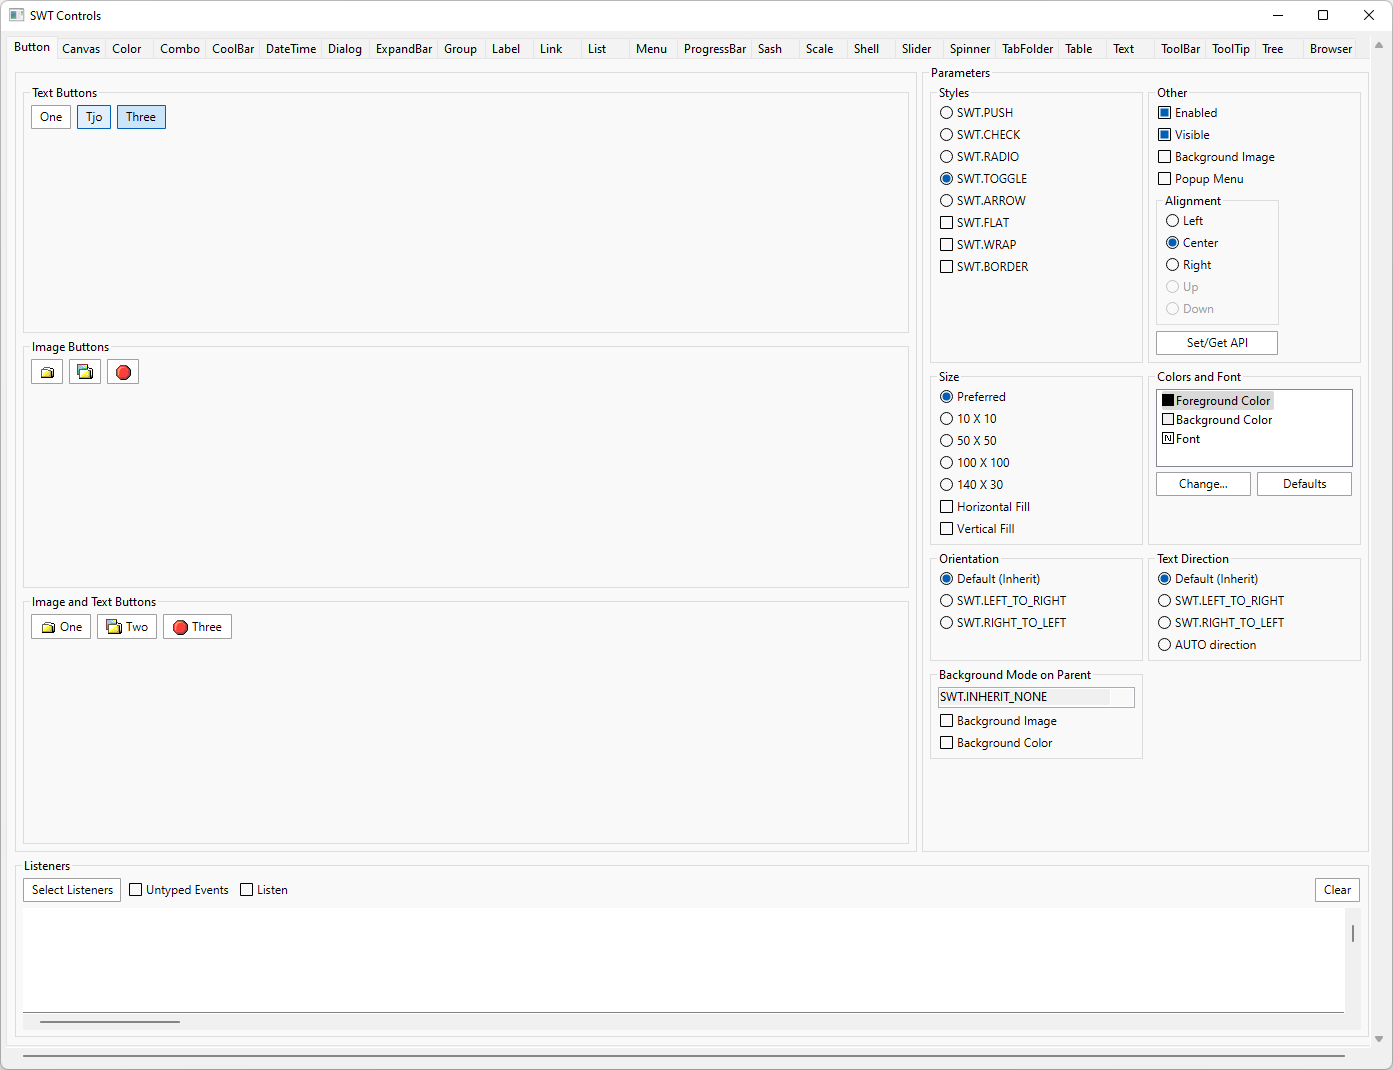
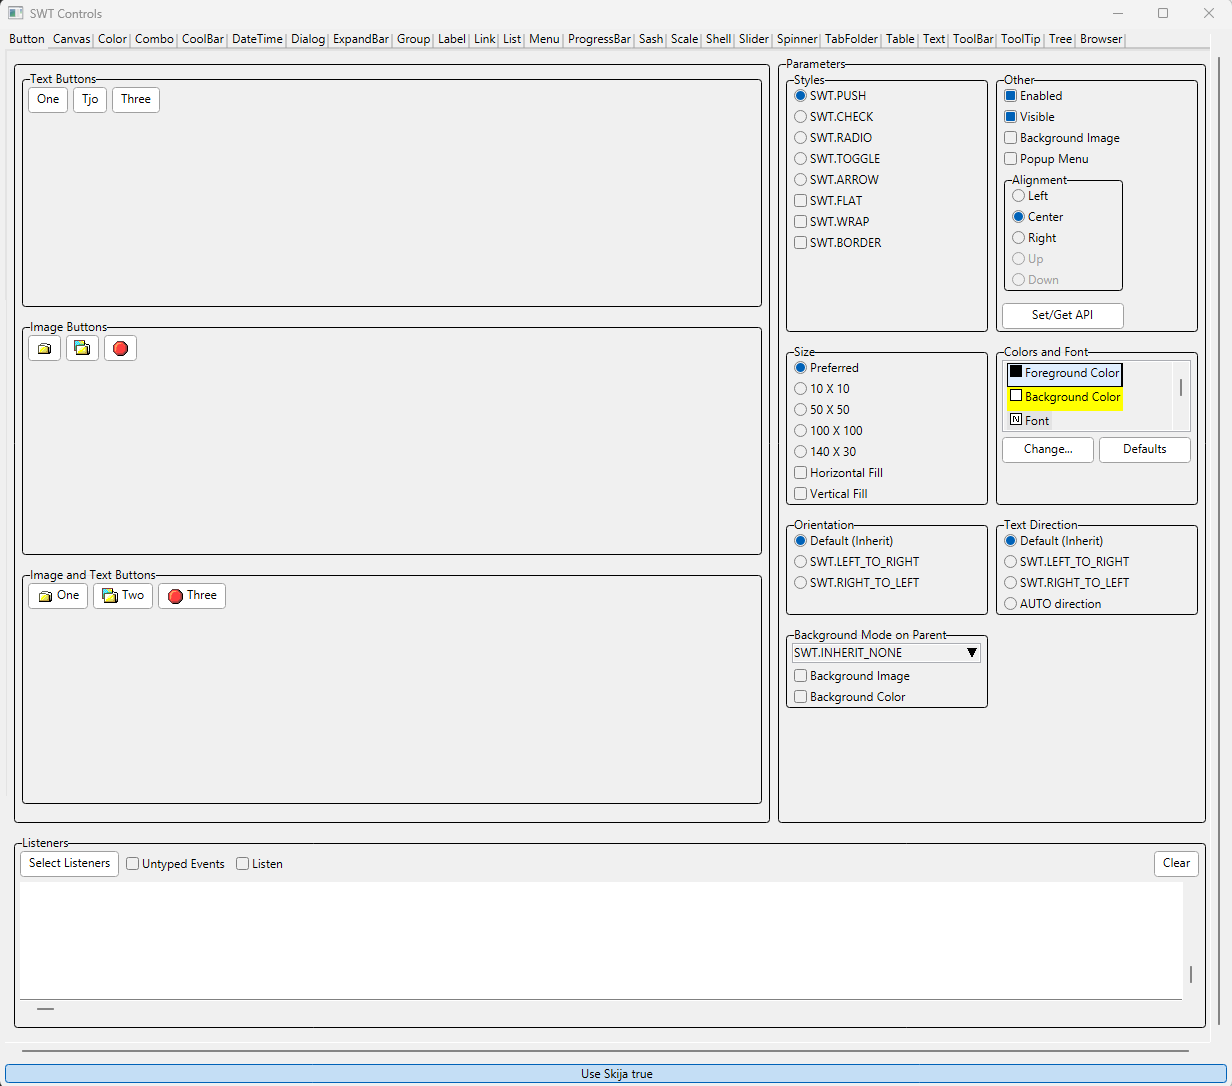
Add used rendering model to the Skija button label in ControlExample
Also updates the documentation how the user can identify the used
rendering engine.

Changed region(s): [[0.0, 0.0, 1.0, 1.0], [0.0, 0.5243, 0.1851, 0.6168], [0.0, 0.771, 0.2468, 0.8327]]

diff --git a/examples/org.eclipse.swt.examples/src/org/eclipse/swt/examples/controlexample/ControlExample.java b/examples/org.eclipse.swt.examples/src/org/eclipse/swt/examples/controlexample/ControlExample.java
@@ -101,13 +101,14 @@ public class ControlExample {
 			}
 		}
 		Button skijaToggle = new Button(parent, SWT.TOGGLE);
-		skijaToggle.setText("Use Skija");
+		skijaToggle.setText("Use Skija " + SWT.USE_SKIJA);
 		skijaToggle.setLayoutData(new GridData(SWT.FILL, SWT.FILL, true, true));
 		skijaToggle.setSelection(SWT.USE_SKIJA);
 		skijaToggle.addSelectionListener(new SelectionAdapter() {
 			@Override
 			public void widgetSelected(org.eclipse.swt.events.SelectionEvent e) {
 				SWT.USE_SKIJA = skijaToggle.getSelection();
+				skijaToggle.setText("Use Skija " + SWT.USE_SKIJA);
 				parent.layout();
 				parent.redraw(0, 0, parent.getBounds().width, parent.getBounds().height, true);
 			}

diff --git a/README.md b/README.md
@@ -43,7 +43,8 @@ Starting with this, you can try out the SWT implementation with whatever applica
 
 The `ControlExample` is part of the example project. It is placed in `org.eclipse.swt.examples.controlexample`. You can run this class as a Java application. The application has tabs for the individual widgets. The tab that opens first is for the `Button`, which is completely custom-drawn. So almost everything you see on that page is custom-drawn via code of the prototype.
 
-At the bottom of the application, a toggle button allows to switch between using the native and the Skija-based renderer ( `GC`) at runtime (see [State](#state)). You can currently distinguish the two rendering engines by looking at the edges of buttons, which are currently not rounded when using the Skija-based GC. The following screenshot shows the rendering of that page based on Skija.
+At the bottom of the application, a toggle button allows to switch between using the native and the Skija-based renderer ( `GC`) at runtime (see [State](#state)). 
+If Skija is used the button will be labed "Use Skija true" otherwise "Use Skija false".
 
 ![ControlExample Button Page](readme_images/controls_button_windows_custom_skijagc.png)
 
